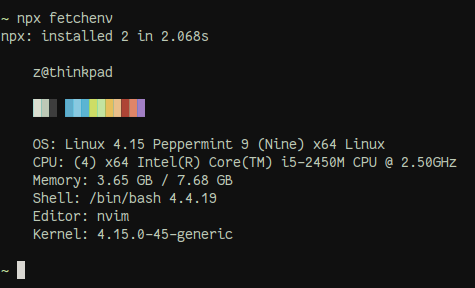
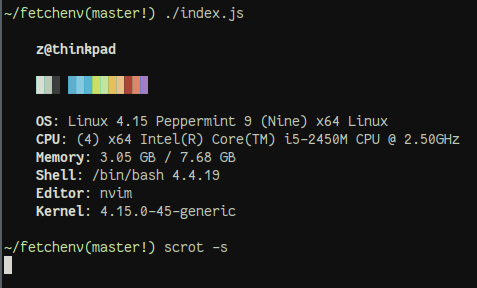
make it even cuter

Changed region(s): [[0.0, 0.0, 0.9726, 1.0], [0.3537, 0.0312, 0.5305, 0.0938]]

diff --git a/lib/format.js b/lib/format.js
@@ -1,10 +1,11 @@
 const colors = require('./colors')
+const { bold } = require('zeelib/lib/colorize')
 
 module.exports = (o) => {
   const obj = { ...o }
 
   let s = `
-    ${obj.User}`
+    ${bold(obj.User)}`
   delete obj.User
 
   s += '\n\n'
@@ -14,7 +15,7 @@ module.exports = (o) => {
   const rest = Object.keys(obj)
     .reduce((p, c) =>
       `    ${p}
-    ${c}: ${obj[c]}`
+    ${bold(c)}: ${obj[c]}`
     , s)
   return rest + '\n'
 }
